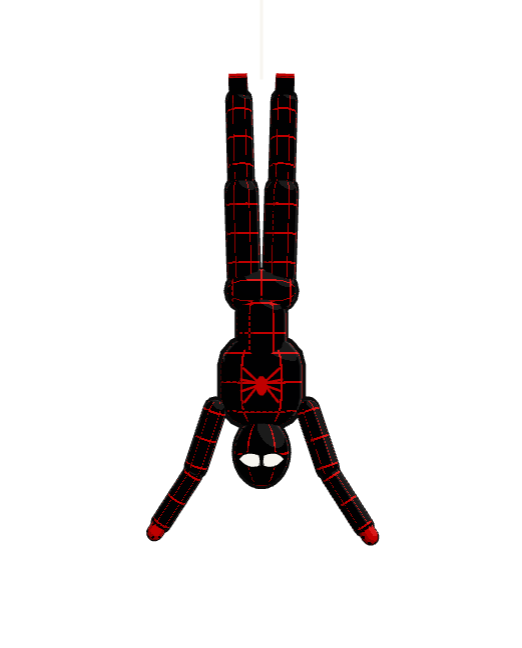
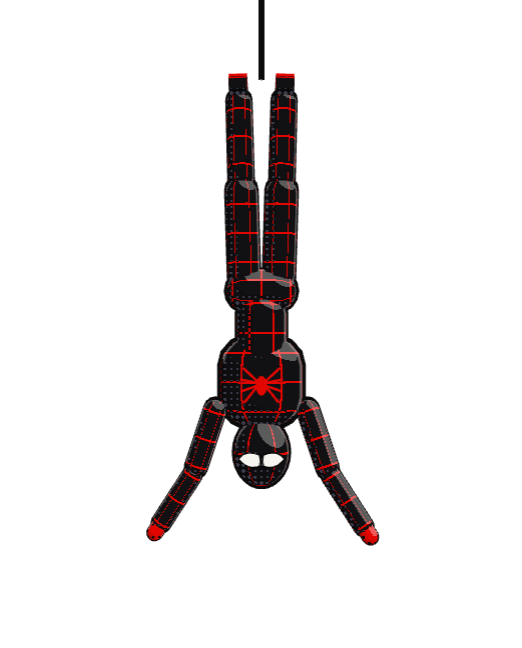
fix(hero3d): sRGB output, suit sheen halftone, ink-cased web; darker nav hover

Changed region(s): [[0.2759, 0.0, 0.7356, 0.8333]]

diff --git a/components/hero3d/toonMaterial.ts b/components/hero3d/toonMaterial.ts
@@ -14,6 +14,7 @@ export const TOON_FRAGMENT = /* glsl */ `
   uniform vec3 uColor;
   uniform vec3 uLineColor;
   uniform vec3 uInk;
+  uniform vec3 uSheen;
   uniform vec3 uLightDir;
   uniform float uWebLines;
   uniform float uDotSize;
@@ -43,8 +44,11 @@ export const TOON_FRAGMENT = /* glsl */ `
     c += vec3(0.1) * step(0.8, ndl);
     float rim = 1.0 - abs(n.z);
     c += vec3(0.16) * smoothstep(0.62, 0.92, rim) * step(-0.2, ndl);
-    c = mix(c, uInk, halftone(dots));
+    // Dots darken bright colors; on a near-black suit they read as a cool sheen instead.
+    vec3 dotColor = dot(base, vec3(0.299, 0.587, 0.114)) < 0.05 ? uSheen : uInk;
+    c = mix(c, dotColor, halftone(dots));
     gl_FragColor = vec4(c, 1.0);
+    #include <colorspace_fragment>
   }
 `;
 
@@ -58,6 +62,7 @@ export function createToonMaterial({color, webLines = false}: Options): THREE.Sh
       uColor: {value: new THREE.Color(color)},
       uLineColor: {value: new THREE.Color('#E10600')},
       uInk: {value: new THREE.Color('#0B0B0B')},
+      uSheen: {value: new THREE.Color('#3A3A48')},
       uLightDir: {value: new THREE.Vector3(0.45, 0.75, 0.55).normalize()},
       uWebLines: {value: webLines ? 1 : 0},
       uDotSize: {value: 6},

diff --git a/tests/unit/hero-model.test.ts b/tests/unit/hero-model.test.ts
@@ -34,3 +34,18 @@ describe('toon material', () => {
     expect(TOON_FRAGMENT).toContain('halftone');
   });
 });
+
+describe('review fixes', () => {
+  test('toon shader converts to the output color space and has a sheen for dark suits', () => {
+    expect(TOON_FRAGMENT).toContain('#include <colorspace_fragment>');
+    const m = createToonMaterial({color: '#111114'});
+    expect(m.uniforms.uSheen).toBeDefined();
+  });
+
+  test('web line has an ink outline so it reads on paper', () => {
+    const web = buildHero().getObjectByName('web')!;
+    const outline = web.getObjectByName('webOutline') as THREE.Mesh | undefined;
+    expect(outline).toBeDefined();
+    expect(((outline!.material as THREE.MeshBasicMaterial).color.getHexString())).toBe('0b0b0b');
+  });
+});

diff --git a/components/ui/Header.tsx b/components/ui/Header.tsx
@@ -16,7 +16,7 @@ export async function Header() {
         </Link>
         <nav aria-label={t('label')} className="order-last flex w-full justify-between md:order-none md:w-auto md:justify-center md:gap-2">
           {SECTIONS.map((id) => (
-            <Link key={id} href={`/#${id}`} className="inline-flex min-h-12 items-center px-1 font-tag text-sm hover:text-red sm:px-3 sm:text-base">
+            <Link key={id} href={`/#${id}`} className="inline-flex min-h-12 items-center px-1 font-tag text-sm hover:text-blood sm:px-3 sm:text-base">
               {t(id)}
             </Link>
           ))}

diff --git a/components/hero3d/buildHero.ts b/components/hero3d/buildHero.ts
@@ -88,6 +88,11 @@ export function buildHero({webLength = 1.0} = {}): THREE.Group {
   web.name = 'web';
   web.scale.y = webLength;
   web.position.y = -webLength / 2;
+  // Ink casing behind the white line so the web reads on light paper.
+  const webOutline = new THREE.Mesh(new THREE.CylinderGeometry(0.024, 0.024, 1, 6), new THREE.MeshBasicMaterial({color: COLORS.ink}));
+  webOutline.name = 'webOutline';
+  webOutline.position.z = -0.01;
+  web.add(webOutline);
   pivot.add(web);
 
   // `body` origin is at the ankles; the upright figure inside is flipped so it hangs head-down.

diff --git a/tests/e2e/zine.spec.ts b/tests/e2e/zine.spec.ts
@@ -61,3 +61,11 @@ test.describe('phone width', () => {
     });
   }
 });
+
+test('nav link hover stays readable (dark red, not brand red)', async ({page, isMobile}) => {
+  test.skip(isMobile, 'hover only');
+  await page.goto('/en');
+  const link = page.getByRole('navigation').getByRole('link', {name: 'Work'});
+  await link.hover();
+  await expect(link).toHaveCSS('color', 'rgb(143, 0, 0)');
+});
